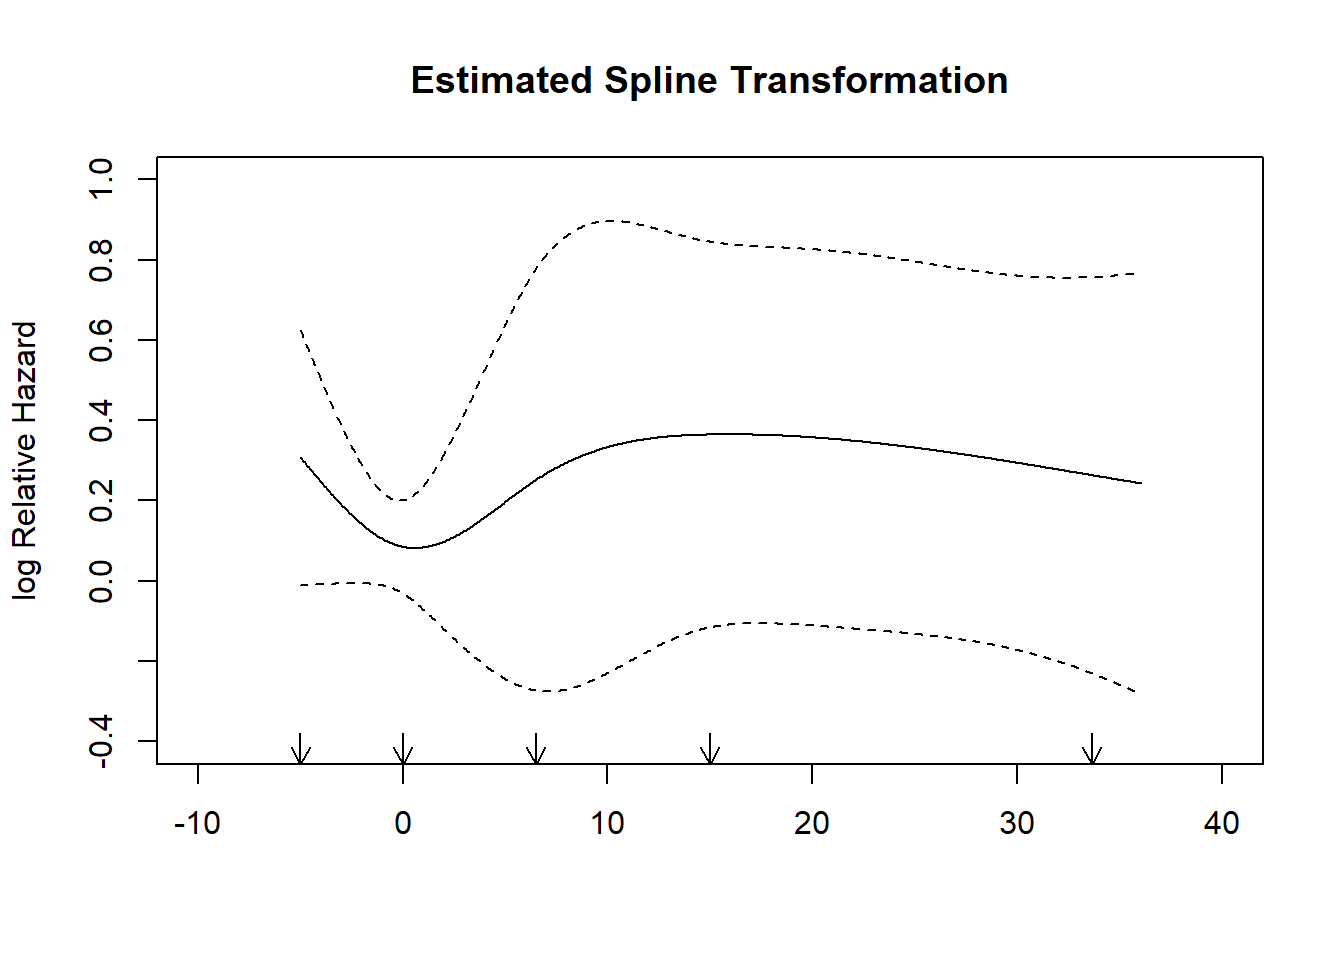
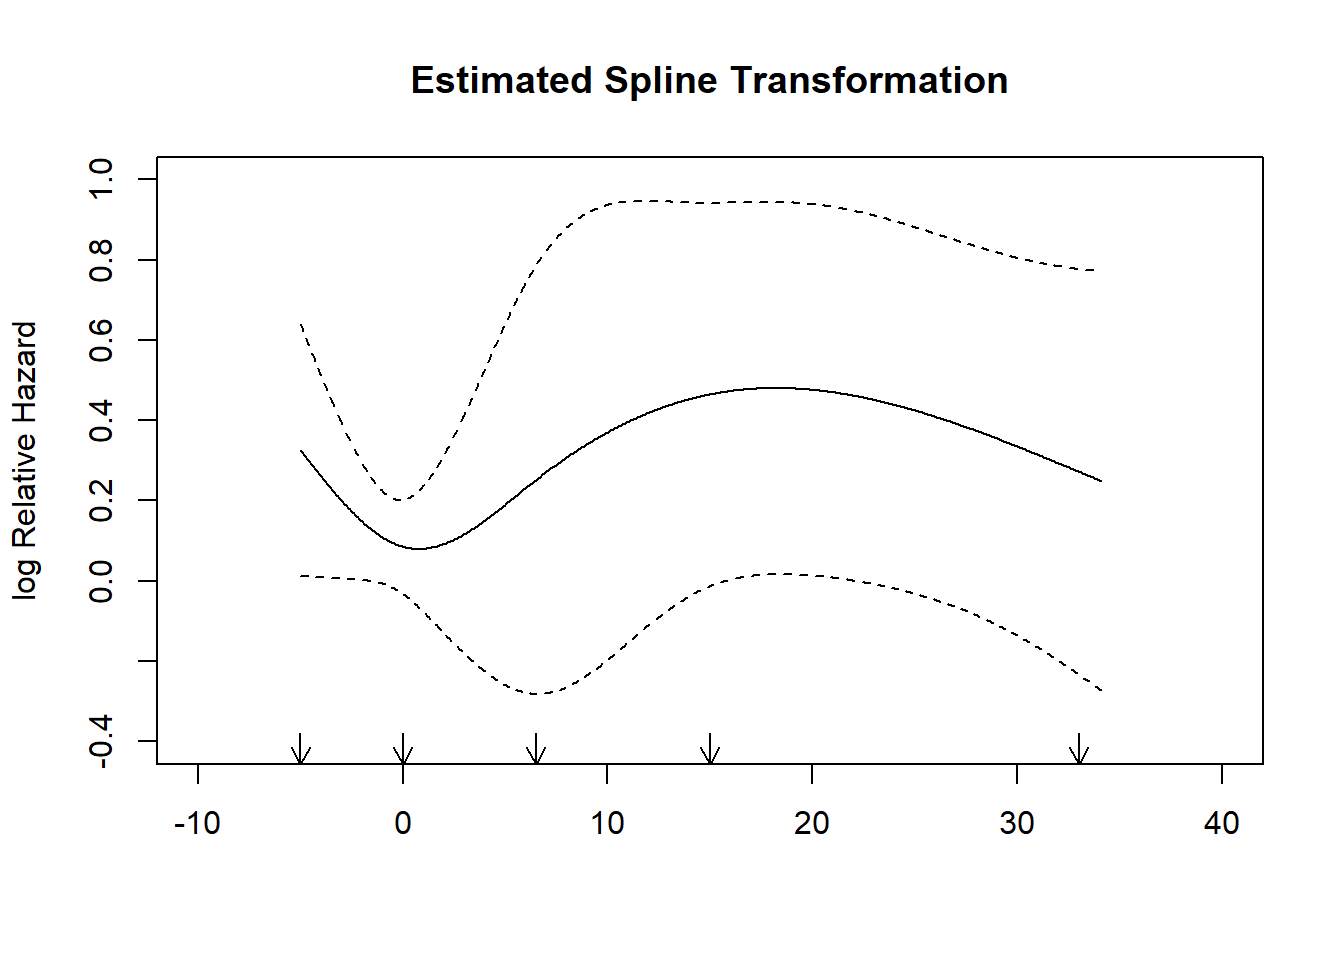
Built site for gh-pages

diff --git a/index.html b/index.html
@@ -142,7 +142,7 @@ window.Quarto = {
   <li><a href="#final-words" id="toc-final-words" class="nav-link" data-scroll-target="#final-words"><span class="header-section-number">7</span> Final words</a></li>
   <li><a href="#postscript" id="toc-postscript" class="nav-link" data-scroll-target="#postscript"><span class="header-section-number">8</span> Postscript</a></li>
   </ul>
-<div class="quarto-other-links"><h2>Other Links</h2><ul><li><a href="https://www.lumc.nl/en/afdelingen/Clinical-Epidemiology/epidemioloog-b/" target="_blank"><i class="bi bi-link-45deg"></i>EPI-B</a></li></ul></div><div class="quarto-code-links"><h2>Code Links</h2><ul><li><a href="pint-prd1.qmd"><i class="bi bi-file-code"></i>Source code</a></li></ul></div></nav>
+<div class="quarto-other-links"><h2>Other Links</h2><ul><li><a href="https://www.lumc.nl/en/afdelingen/Clinical-Epidemiology/epidemioloog-b/" target="_blank"><i class="bi bi-link-45deg"></i>EPI-B</a></li></ul></div><div class="quarto-code-links"><h2>Code Links</h2><ul><li><a href="https://github.com/rjjanse/practicals/blob/main/pint/pint_prd1.qmd"><i class="bi bi-file-code"></i>Source code</a></li></ul></div></nav>
 </div>
 <main class="content page-columns page-full" id="quarto-document-content">
 
@@ -848,18 +848,18 @@ Slope: 1.000</code></pre>
 <div class="sourceCode cell-code" id="cb20"><pre class="sourceCode numberSource r number-lines code-with-copy"><code class="sourceCode r"><span id="cb20-1"><a href="#cb20-1"></a><span class="co"># Validate the model</span></span>
 <span id="cb20-2"><a href="#cb20-2"></a><span class="fu">validate</span>(fit_rms)</span></code><button title="Copy to Clipboard" class="code-copy-button"><i class="bi"></i></button></pre></div>
 <div class="cell-output cell-output-stdout">
-<pre><code>          index.orig training   test optimism index.corrected  n
-Dxy           0.5303   0.5351 0.5247   0.0104          0.5198 40
-R2            0.2726   0.2794 0.2666   0.0128          0.2598 40
-Intercept     0.0000   0.0000 0.0031  -0.0031          0.0031 40
-Slope         1.0000   1.0000 0.9730   0.0270          0.9730 40
-Emax          0.0000   0.0000 0.0066   0.0066          0.0066 40
-D             0.2243   0.2306 0.2188   0.0119          0.2124 40
-U            -0.0009  -0.0009 0.0001  -0.0011          0.0001 40
-Q             0.2252   0.2316 0.2186   0.0129          0.2123 40
-B             0.1879   0.1862 0.1892  -0.0029          0.1908 40
-g             1.2470   1.2716 1.2284   0.0432          1.2038 40
-gp            0.2538   0.2563 0.2507   0.0056          0.2482 40</code></pre>
+<pre><code>          index.orig training    test optimism index.corrected  n
+Dxy           0.5303   0.5384  0.5250   0.0134          0.5169 40
+R2            0.2726   0.2809  0.2673   0.0136          0.2589 40
+Intercept     0.0000   0.0000 -0.0103   0.0103         -0.0103 40
+Slope         1.0000   1.0000  0.9622   0.0378          0.9622 40
+Emax          0.0000   0.0000  0.0102   0.0102          0.0102 40
+D             0.2243   0.2322  0.2194   0.0128          0.2115 40
+U            -0.0009  -0.0009  0.0003  -0.0012          0.0003 40
+Q             0.2252   0.2331  0.2191   0.0140          0.2112 40
+B             0.1879   0.1862  0.1891  -0.0029          0.1907 40
+g             1.2470   1.2797  1.2319   0.0477          1.1993 40
+gp            0.2538   0.2575  0.2512   0.0063          0.2475 40</code></pre>
 </div>
 </div>
 <p>How do we interpret this output? The <code>validate()</code> function applies resampling, which is a method to account for overfitting, with the results being printed in the ‘index.corrected’ column. However, if we are just interested in the apparent performance, we can just look at ‘index.orig’. To calculate the C-statistic, we can use <span class="math inline">\(c = \frac{Dxy}{2} + 0.5\)</span>. In our case, the C-statistic would be:</p>
@@ -883,8 +883,8 @@ gp            0.2538   0.2563 0.2507   0.0056          0.2482 40</code></pre>
 </div>
 <div class="cell-output cell-output-stdout">
 <pre><code>
-n=2159   Mean absolute error=0.006   Mean squared error=5e-05
-0.9 Quantile of absolute error=0.013</code></pre>
+n=2159   Mean absolute error=0.006   Mean squared error=6e-05
+0.9 Quantile of absolute error=0.014</code></pre>
 </div>
 </div>
 </section>
@@ -1060,26 +1060,26 @@ coxph(formula = Surv(time, status) ~ age + sex + ns(wt.loss,
 
   n= 228, number of events= 159 
 
-                                   coef exp(coef) se(coef)      z Pr(&gt;|z|)   
-age                             0.01798   1.01815  0.00948  1.897  0.05782 . 
-sex                            -0.54426   0.58027  0.17156 -3.172  0.00151 **
-ns(wt.loss, knots = c(0, 17))1 -0.34369   0.70915  0.48977 -0.702  0.48284   
-ns(wt.loss, knots = c(0, 17))2 -2.22763   0.10778  1.67412 -1.331  0.18331   
-ns(wt.loss, knots = c(0, 17))3 -0.60040   0.54859  0.83999 -0.715  0.47475   
+                                    coef exp(coef)  se(coef)      z Pr(&gt;|z|)   
+age                             0.017078  1.017224  0.009475  1.802  0.07147 . 
+sex                            -0.540593  0.582403  0.171566 -3.151  0.00163 **
+ns(wt.loss, knots = c(0, 17))1 -0.154563  0.856790  0.489562 -0.316  0.75222   
+ns(wt.loss, knots = c(0, 17))2 -2.830153  0.059004  1.689302 -1.675  0.09387 . 
+ns(wt.loss, knots = c(0, 17))3 -1.213036  0.297293  0.982152 -1.235  0.21680   
 ---
 Signif. codes:  0 '***' 0.001 '**' 0.01 '*' 0.05 '.' 0.1 ' ' 1
 
                                exp(coef) exp(-coef) lower .95 upper .95
-age                               1.0181     0.9822  0.999404    1.0372
-sex                               0.5803     1.7233  0.414574    0.8122
-ns(wt.loss, knots = c(0, 17))1    0.7091     1.4101  0.271546    1.8520
-ns(wt.loss, knots = c(0, 17))2    0.1078     9.2778  0.004051    2.8679
-ns(wt.loss, knots = c(0, 17))3    0.5486     1.8229  0.105743    2.8461
+age                               1.0172     0.9831  0.998509    1.0363
+sex                               0.5824     1.7170  0.416089    0.8152
+ns(wt.loss, knots = c(0, 17))1    0.8568     1.1671  0.328215    2.2366
+ns(wt.loss, knots = c(0, 17))2    0.0590    16.9481  0.002153    1.6174
+ns(wt.loss, knots = c(0, 17))3    0.2973     3.3637  0.043369    2.0380
 
-Concordance= 0.605  (se = 0.025 )
-Likelihood ratio test= 17.31  on 5 df,   p=0.004
-Wald test            = 16.53  on 5 df,   p=0.005
-Score (logrank) test = 16.96  on 5 df,   p=0.005</code></pre>
+Concordance= 0.611  (se = 0.025 )
+Likelihood ratio test= 18.49  on 5 df,   p=0.002
+Wald test            = 17.6  on 5 df,   p=0.003
+Score (logrank) test = 18.11  on 5 df,   p=0.003</code></pre>
 </div>
 </div>
 <p>We see that weight loss has three coefficients, one for the lowest value through 0 (1), one for 0 through 10 (2), and one for 10 through the highest value (3). Also note that we do not have an intercept: to calculate the final predicted risk, we need to use the baseline hazard instead of the intercept. However, the baseline hazard is different for each timepoint.</p>
@@ -1088,7 +1088,7 @@ Score (logrank) test = 16.96  on 5 df,   p=0.005</code></pre>
 <div class="sourceCode cell-code" id="cb38"><pre class="sourceCode numberSource r number-lines code-with-copy"><code class="sourceCode r"><span id="cb38-1"><a href="#cb38-1"></a><span class="co"># Retrieve baseline hazard at 2 years</span></span>
 <span id="cb38-2"><a href="#cb38-2"></a><span class="fu">filter</span>(<span class="fu">basehaz</span>(fit), time <span class="sc">==</span> <span class="fl">365.25</span> <span class="sc">*</span> <span class="dv">2</span>)[[<span class="st">"hazard"</span>]]</span></code><button title="Copy to Clipboard" class="code-copy-button"><i class="bi"></i></button></pre></div>
 <div class="cell-output cell-output-stdout">
-<pre><code>[1] 2.14364</code></pre>
+<pre><code>[1] 2.145641</code></pre>
 </div>
 </div>
 <p>Discrimination of this model can be calculated using Harrell’s C-statistic: * The function <code>cindex()</code> from the <code>{dynpred}</code> package (does not require model fit, but does require development formula). * The function <code>rcorr.cens()</code> from the <code>{Hmisc}</code> package (does not require model fit, but may be slow). * The function <code>cIndex()</code> from the <code>{intsurv}</code> package.</p>

diff --git a/pint_prd1.html b/pint_prd1.html
@@ -142,7 +142,7 @@ window.Quarto = {
   <li><a href="#final-words" id="toc-final-words" class="nav-link" data-scroll-target="#final-words"><span class="header-section-number">7</span> Final words</a></li>
   <li><a href="#postscript" id="toc-postscript" class="nav-link" data-scroll-target="#postscript"><span class="header-section-number">8</span> Postscript</a></li>
   </ul>
-<div class="quarto-other-links"><h2>Other Links</h2><ul><li><a href="https://www.lumc.nl/en/afdelingen/Clinical-Epidemiology/epidemioloog-b/" target="_blank"><i class="bi bi-link-45deg"></i>EPI-B</a></li></ul></div><div class="quarto-code-links"><h2>Code Links</h2><ul><li><a href="pint-prd1.qmd"><i class="bi bi-file-code"></i>Source code</a></li></ul></div></nav>
+<div class="quarto-other-links"><h2>Other Links</h2><ul><li><a href="https://www.lumc.nl/en/afdelingen/Clinical-Epidemiology/epidemioloog-b/" target="_blank"><i class="bi bi-link-45deg"></i>EPI-B</a></li></ul></div><div class="quarto-code-links"><h2>Code Links</h2><ul><li><a href="https://github.com/rjjanse/practicals/blob/main/pint/pint_prd1.qmd"><i class="bi bi-file-code"></i>Source code</a></li></ul></div></nav>
 </div>
 <main class="content page-columns page-full" id="quarto-document-content">
 
@@ -848,18 +848,18 @@ Slope: 1.000</code></pre>
 <div class="sourceCode cell-code" id="cb20"><pre class="sourceCode numberSource r number-lines code-with-copy"><code class="sourceCode r"><span id="cb20-1"><a href="#cb20-1"></a><span class="co"># Validate the model</span></span>
 <span id="cb20-2"><a href="#cb20-2"></a><span class="fu">validate</span>(fit_rms)</span></code><button title="Copy to Clipboard" class="code-copy-button"><i class="bi"></i></button></pre></div>
 <div class="cell-output cell-output-stdout">
-<pre><code>          index.orig training   test optimism index.corrected  n
-Dxy           0.5303   0.5351 0.5247   0.0104          0.5198 40
-R2            0.2726   0.2794 0.2666   0.0128          0.2598 40
-Intercept     0.0000   0.0000 0.0031  -0.0031          0.0031 40
-Slope         1.0000   1.0000 0.9730   0.0270          0.9730 40
-Emax          0.0000   0.0000 0.0066   0.0066          0.0066 40
-D             0.2243   0.2306 0.2188   0.0119          0.2124 40
-U            -0.0009  -0.0009 0.0001  -0.0011          0.0001 40
-Q             0.2252   0.2316 0.2186   0.0129          0.2123 40
-B             0.1879   0.1862 0.1892  -0.0029          0.1908 40
-g             1.2470   1.2716 1.2284   0.0432          1.2038 40
-gp            0.2538   0.2563 0.2507   0.0056          0.2482 40</code></pre>
+<pre><code>          index.orig training    test optimism index.corrected  n
+Dxy           0.5303   0.5384  0.5250   0.0134          0.5169 40
+R2            0.2726   0.2809  0.2673   0.0136          0.2589 40
+Intercept     0.0000   0.0000 -0.0103   0.0103         -0.0103 40
+Slope         1.0000   1.0000  0.9622   0.0378          0.9622 40
+Emax          0.0000   0.0000  0.0102   0.0102          0.0102 40
+D             0.2243   0.2322  0.2194   0.0128          0.2115 40
+U            -0.0009  -0.0009  0.0003  -0.0012          0.0003 40
+Q             0.2252   0.2331  0.2191   0.0140          0.2112 40
+B             0.1879   0.1862  0.1891  -0.0029          0.1907 40
+g             1.2470   1.2797  1.2319   0.0477          1.1993 40
+gp            0.2538   0.2575  0.2512   0.0063          0.2475 40</code></pre>
 </div>
 </div>
 <p>How do we interpret this output? The <code>validate()</code> function applies resampling, which is a method to account for overfitting, with the results being printed in the ‘index.corrected’ column. However, if we are just interested in the apparent performance, we can just look at ‘index.orig’. To calculate the C-statistic, we can use <span class="math inline">\(c = \frac{Dxy}{2} + 0.5\)</span>. In our case, the C-statistic would be:</p>
@@ -883,8 +883,8 @@ gp            0.2538   0.2563 0.2507   0.0056          0.2482 40</code></pre>
 </div>
 <div class="cell-output cell-output-stdout">
 <pre><code>
-n=2159   Mean absolute error=0.006   Mean squared error=5e-05
-0.9 Quantile of absolute error=0.013</code></pre>
+n=2159   Mean absolute error=0.006   Mean squared error=6e-05
+0.9 Quantile of absolute error=0.014</code></pre>
 </div>
 </div>
 </section>
@@ -1060,26 +1060,26 @@ coxph(formula = Surv(time, status) ~ age + sex + ns(wt.loss,
 
   n= 228, number of events= 159 
 
-                                   coef exp(coef) se(coef)      z Pr(&gt;|z|)   
-age                             0.01798   1.01815  0.00948  1.897  0.05782 . 
-sex                            -0.54426   0.58027  0.17156 -3.172  0.00151 **
-ns(wt.loss, knots = c(0, 17))1 -0.34369   0.70915  0.48977 -0.702  0.48284   
-ns(wt.loss, knots = c(0, 17))2 -2.22763   0.10778  1.67412 -1.331  0.18331   
-ns(wt.loss, knots = c(0, 17))3 -0.60040   0.54859  0.83999 -0.715  0.47475   
+                                    coef exp(coef)  se(coef)      z Pr(&gt;|z|)   
+age                             0.017078  1.017224  0.009475  1.802  0.07147 . 
+sex                            -0.540593  0.582403  0.171566 -3.151  0.00163 **
+ns(wt.loss, knots = c(0, 17))1 -0.154563  0.856790  0.489562 -0.316  0.75222   
+ns(wt.loss, knots = c(0, 17))2 -2.830153  0.059004  1.689302 -1.675  0.09387 . 
+ns(wt.loss, knots = c(0, 17))3 -1.213036  0.297293  0.982152 -1.235  0.21680   
 ---
 Signif. codes:  0 '***' 0.001 '**' 0.01 '*' 0.05 '.' 0.1 ' ' 1
 
                                exp(coef) exp(-coef) lower .95 upper .95
-age                               1.0181     0.9822  0.999404    1.0372
-sex                               0.5803     1.7233  0.414574    0.8122
-ns(wt.loss, knots = c(0, 17))1    0.7091     1.4101  0.271546    1.8520
-ns(wt.loss, knots = c(0, 17))2    0.1078     9.2778  0.004051    2.8679
-ns(wt.loss, knots = c(0, 17))3    0.5486     1.8229  0.105743    2.8461
+age                               1.0172     0.9831  0.998509    1.0363
+sex                               0.5824     1.7170  0.416089    0.8152
+ns(wt.loss, knots = c(0, 17))1    0.8568     1.1671  0.328215    2.2366
+ns(wt.loss, knots = c(0, 17))2    0.0590    16.9481  0.002153    1.6174
+ns(wt.loss, knots = c(0, 17))3    0.2973     3.3637  0.043369    2.0380
 
-Concordance= 0.605  (se = 0.025 )
-Likelihood ratio test= 17.31  on 5 df,   p=0.004
-Wald test            = 16.53  on 5 df,   p=0.005
-Score (logrank) test = 16.96  on 5 df,   p=0.005</code></pre>
+Concordance= 0.611  (se = 0.025 )
+Likelihood ratio test= 18.49  on 5 df,   p=0.002
+Wald test            = 17.6  on 5 df,   p=0.003
+Score (logrank) test = 18.11  on 5 df,   p=0.003</code></pre>
 </div>
 </div>
 <p>We see that weight loss has three coefficients, one for the lowest value through 0 (1), one for 0 through 10 (2), and one for 10 through the highest value (3). Also note that we do not have an intercept: to calculate the final predicted risk, we need to use the baseline hazard instead of the intercept. However, the baseline hazard is different for each timepoint.</p>
@@ -1088,7 +1088,7 @@ Score (logrank) test = 16.96  on 5 df,   p=0.005</code></pre>
 <div class="sourceCode cell-code" id="cb38"><pre class="sourceCode numberSource r number-lines code-with-copy"><code class="sourceCode r"><span id="cb38-1"><a href="#cb38-1"></a><span class="co"># Retrieve baseline hazard at 2 years</span></span>
 <span id="cb38-2"><a href="#cb38-2"></a><span class="fu">filter</span>(<span class="fu">basehaz</span>(fit), time <span class="sc">==</span> <span class="fl">365.25</span> <span class="sc">*</span> <span class="dv">2</span>)[[<span class="st">"hazard"</span>]]</span></code><button title="Copy to Clipboard" class="code-copy-button"><i class="bi"></i></button></pre></div>
 <div class="cell-output cell-output-stdout">
-<pre><code>[1] 2.14364</code></pre>
+<pre><code>[1] 2.145641</code></pre>
 </div>
 </div>
 <p>Discrimination of this model can be calculated using Harrell’s C-statistic: * The function <code>cindex()</code> from the <code>{dynpred}</code> package (does not require model fit, but does require development formula). * The function <code>rcorr.cens()</code> from the <code>{Hmisc}</code> package (does not require model fit, but may be slow). * The function <code>cIndex()</code> from the <code>{intsurv}</code> package.</p>
